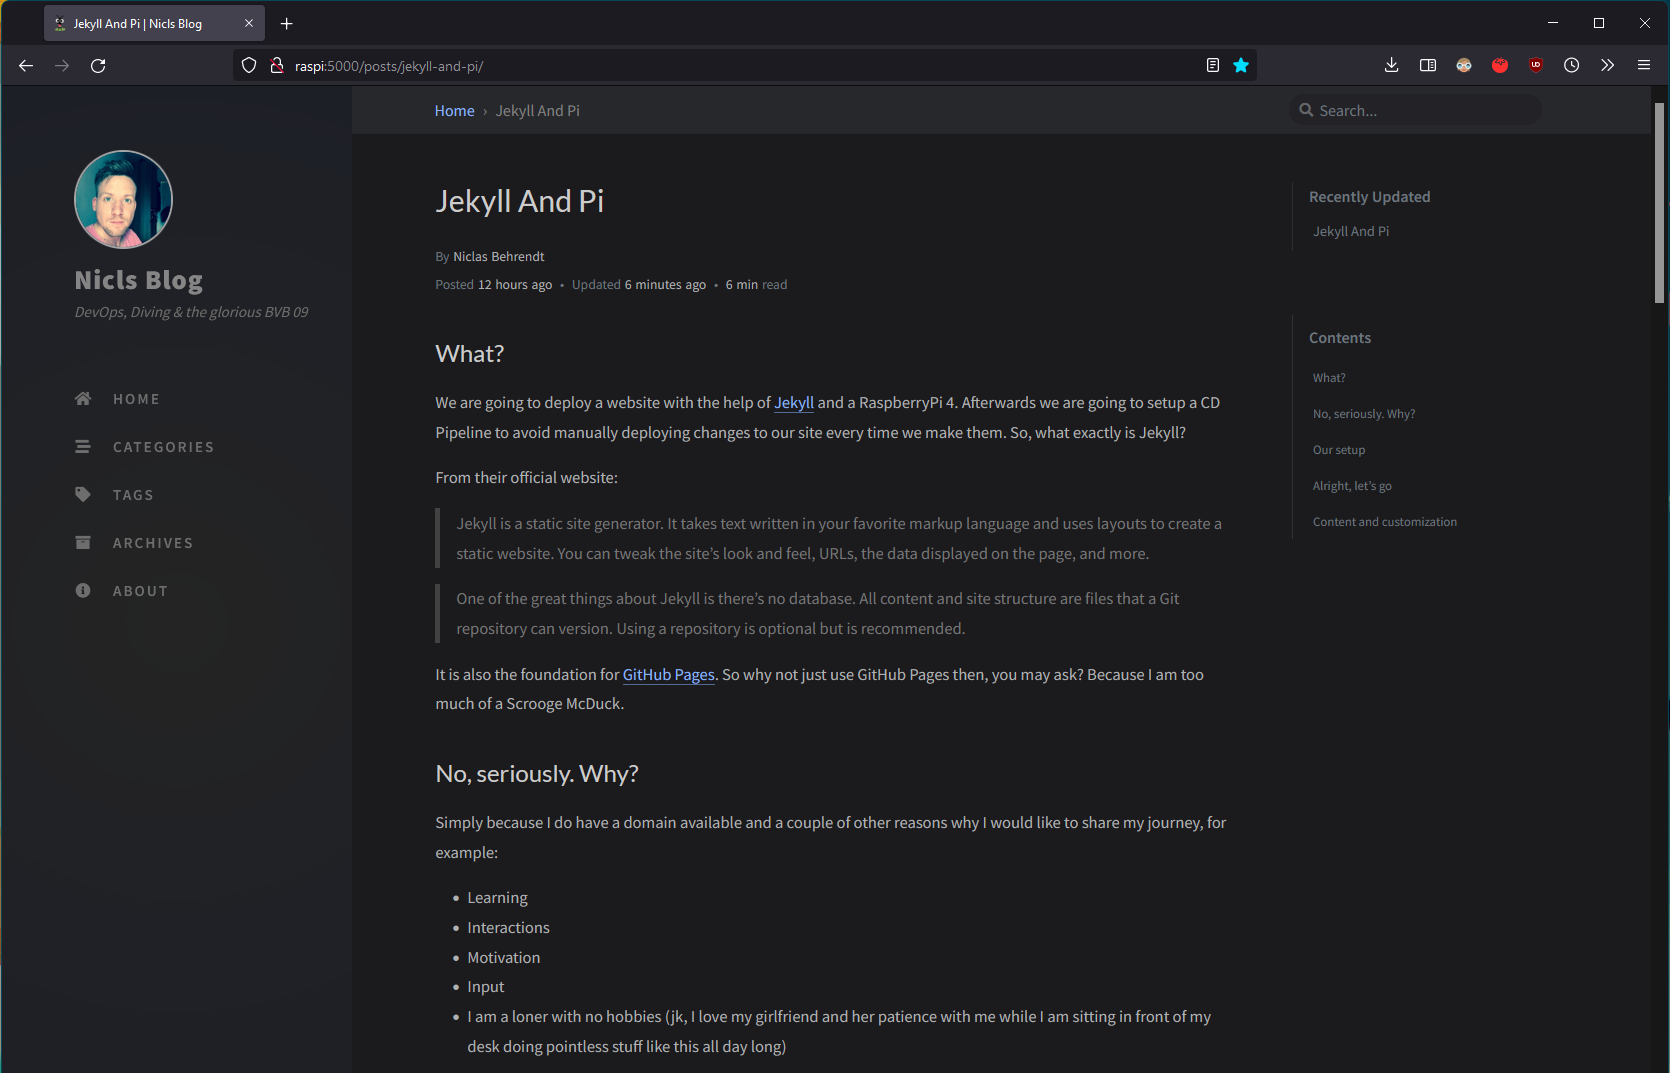
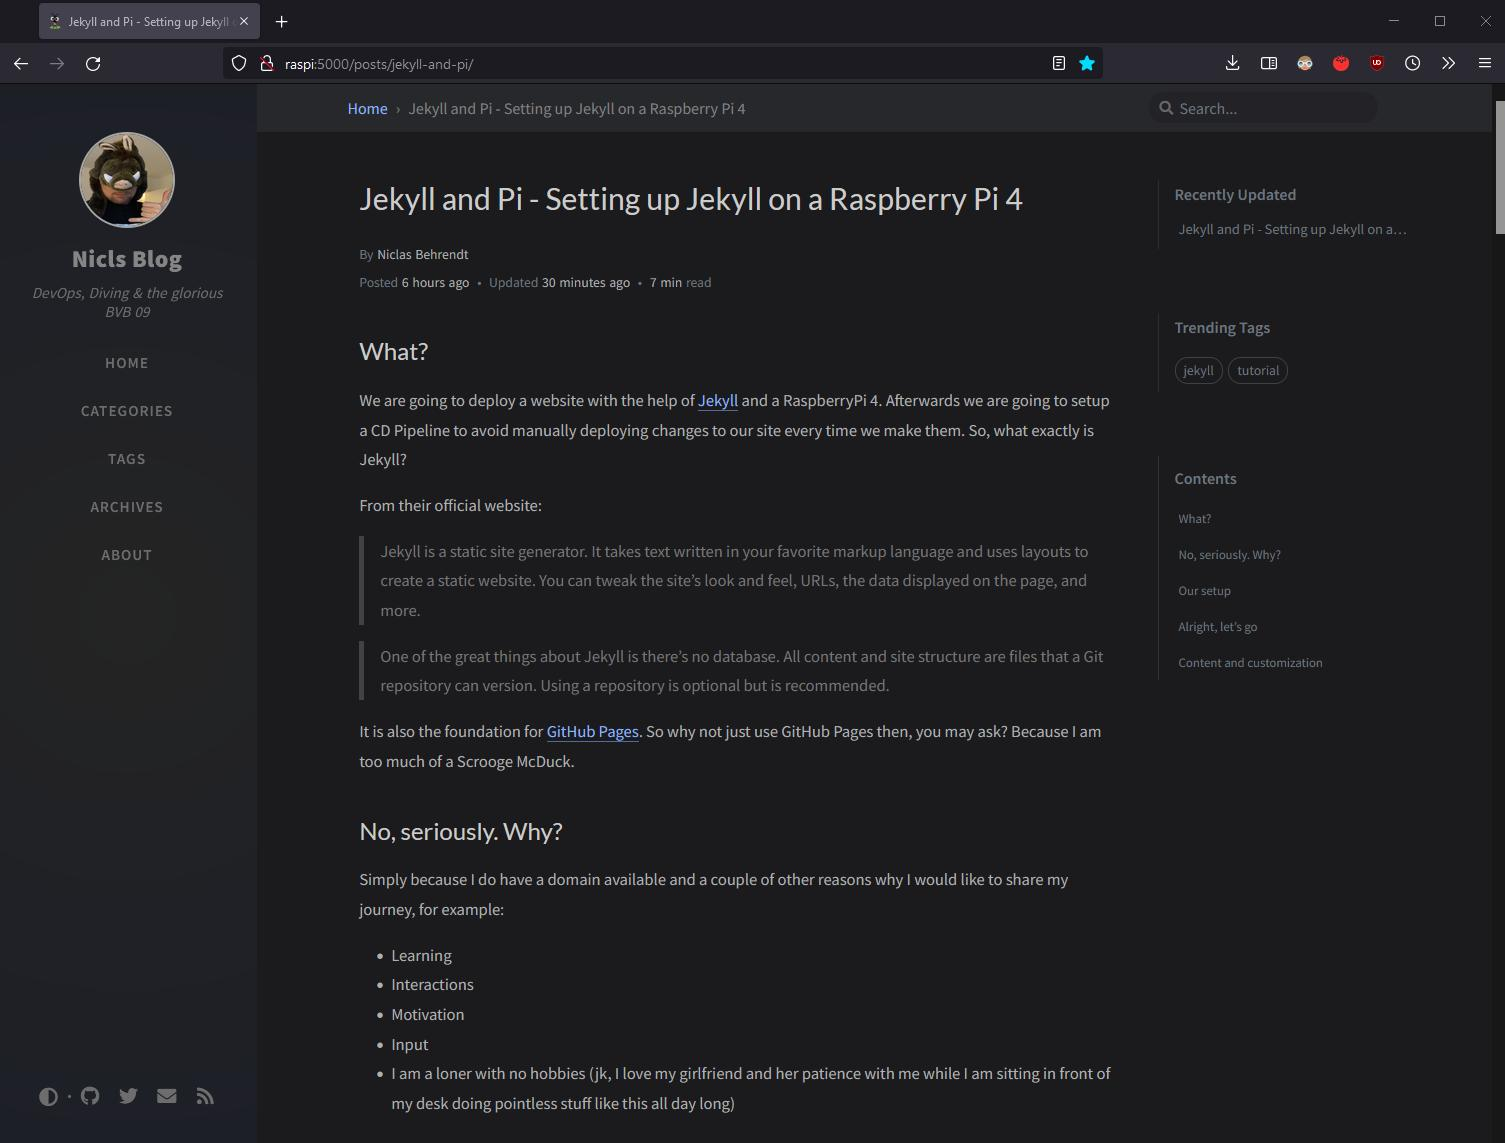
replaced chirpy screenshot and used proper syntax for codeblock

diff --git a/_posts/2022-03-15-jekyll-and-pi.md b/_posts/2022-03-15-jekyll-and-pi.md
@@ -112,7 +112,7 @@ Okay, we got the template site up and running, now it's time to fill it with our
 Jekyll looks for files with the proper format in the ~/blog/_posts folder. This file must contain what Jekyll calls the [YAML Front Matter](https://jekyllrb.com/docs/step-by-step/03-front-matter/).
 A typical Front Matter section could look like this:
 
-```yaml
+```markdown
 ---
 layout: post
 title:  "Jekyll and Pi"
@@ -126,9 +126,9 @@ tags: jekyll tutorial
 We are going to deploy a website with the help of [Jekyll](https://jekyllrb.com/) and a RaspberryPi 4. Afterwards we are going to setup a CD Pipeline to avoid manually deploying changes to our site every time we make them. So, what exactly is Jekyll?
 
 From their official website: 
-Jekyll is a static site generator. It takes text written in your favorite markup language and uses layouts to create a static website. You can tweak the site’s look and feel, URLs, the data displayed on the page, and more.
+> Jekyll is a static site generator. It takes text written in your favorite markup language and uses layouts to create a static website. You can tweak the site’s look and feel, URLs, the data displayed on the page, and more.
 
-One of the great things about Jekyll is there’s no database. All content and site structure are files that a Git repository can version. Using a repository is optional but is recommended.
+> One of the great things about Jekyll is there’s no database. All content and site structure are files that a Git repository can version. Using a repository is optional but is recommended.
 
 It is also the foundation for [GitHub Pages](https://pages.github.com/). So why not just use GitHub Pages then, you may ask? Because I am too much of a Scrooge McDuck.
 ```
